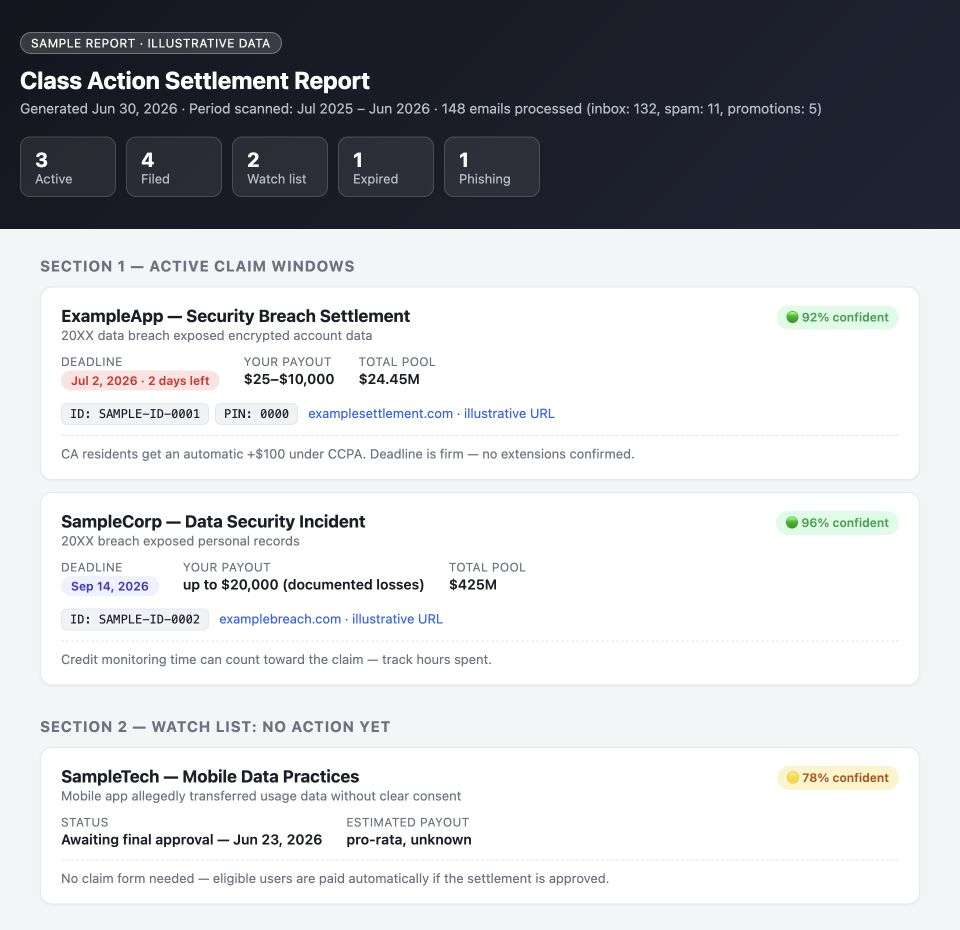
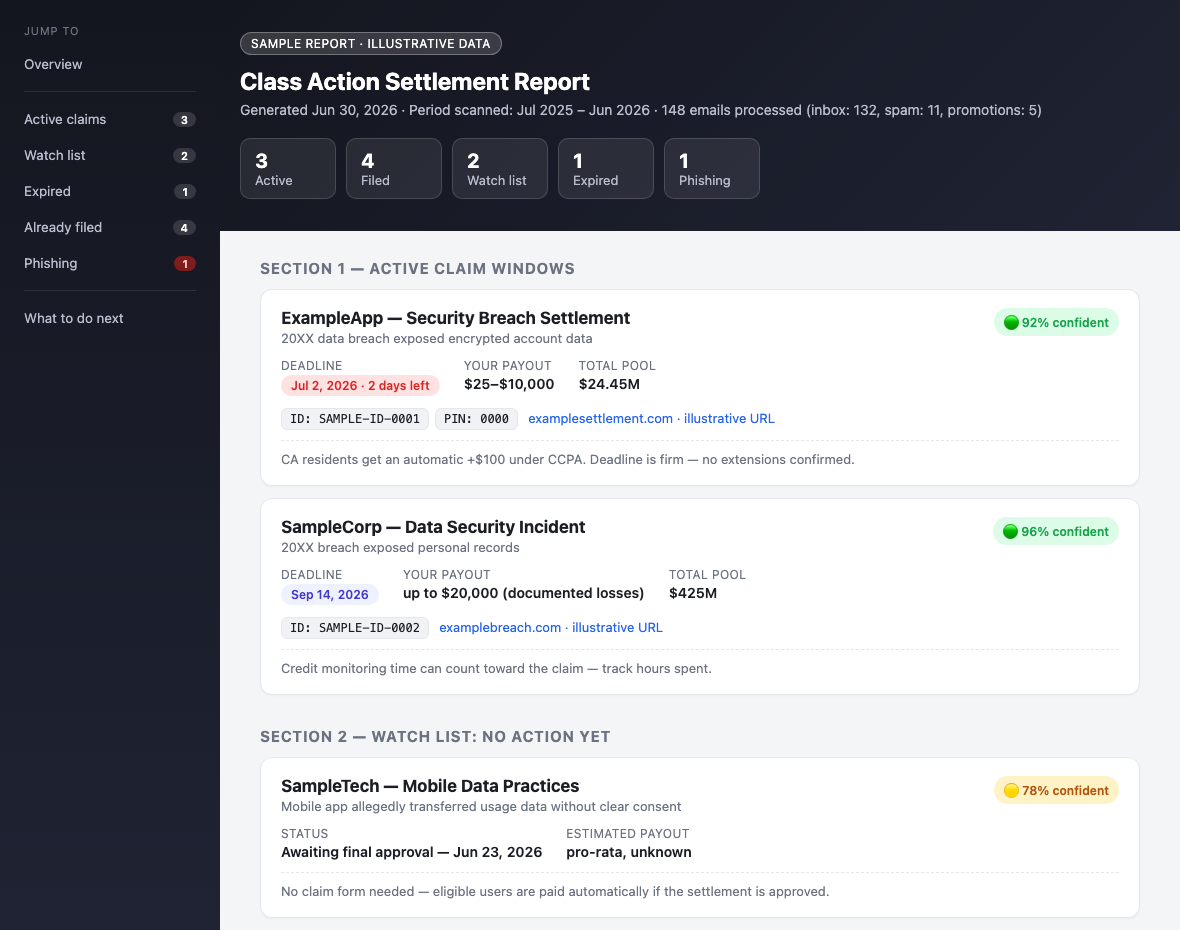
Add a fixed left navigation bar to the HTML report
Long reports meant a lot of scrolling to reach later sections. The
report now has a left sidebar with anchor links to all five sections
and the "What To Do Next" panel, each with its count in a pill (the
phishing count styled as an alert when > 0).

Implementation is pure CSS — anchor links, scroll-behavior: smooth,
scroll-margin-top — because the report's CSP forbids JavaScript.
Below ~900px the sidebar collapses into a wrapped horizontal link bar
at the top. Verified both layouts and anchor scrolling in a real
browser render.

- SKILL.md Step 9: nav added to the report requirements; Part C now
  also updates the nav count pills when patching a report in place
- report-template.md: nav entries and order specified, counts must
  match the header badges
- docs/demo-report.html: sidebar added; both README screenshots
  regenerated from it
- dist rebuilt; both local installs refreshed; check.sh passes

diff --git a/docs/demo-report.html b/docs/demo-report.html
@@ -23,12 +23,72 @@
     --red-bg: #fee2e2;
   }
   * { box-sizing: border-box; }
+  html { scroll-behavior: smooth; }
   body {
     margin: 0;
     font-family: -apple-system, BlinkMacSystemFont, "Segoe UI", Roboto, sans-serif;
     background: var(--bg);
     color: var(--text);
   }
+
+  /* Left navigation — pure CSS anchor links, no JavaScript (CSP-safe) */
+  .sidenav {
+    position: fixed;
+    top: 0; left: 0; bottom: 0;
+    width: 220px;
+    background: linear-gradient(180deg, var(--header-bg), var(--header-bg2));
+    padding: 24px 12px;
+    overflow-y: auto;
+  }
+  .sidenav .nav-title {
+    color: #6d7284;
+    font-size: 11px;
+    text-transform: uppercase;
+    letter-spacing: 0.08em;
+    padding: 0 12px 10px;
+  }
+  .sidenav a {
+    display: flex;
+    justify-content: space-between;
+    align-items: center;
+    gap: 8px;
+    color: #b8bccc;
+    text-decoration: none;
+    font-size: 13.5px;
+    padding: 9px 12px;
+    border-radius: 8px;
+    margin-bottom: 2px;
+  }
+  .sidenav a:hover { background: rgba(255,255,255,0.08); color: #fff; }
+  .sidenav .count {
+    background: rgba(255,255,255,0.14);
+    color: #fff;
+    border-radius: 999px;
+    padding: 1px 8px;
+    font-size: 11px;
+    font-weight: 600;
+  }
+  .sidenav .count.alert { background: #7f1d1d; color: #fecaca; }
+  .sidenav .nav-sep { border-top: 1px solid rgba(255,255,255,0.1); margin: 10px 12px; }
+
+  .page { margin-left: 220px; }
+  section.group, .action-panel, header { scroll-margin-top: 16px; }
+
+  @media (max-width: 900px) {
+    .sidenav {
+      position: static;
+      width: auto;
+      display: flex;
+      flex-wrap: wrap;
+      gap: 4px;
+      padding: 10px 12px;
+      overflow: visible;
+    }
+    .sidenav .nav-title, .sidenav .nav-sep { display: none; }
+    .sidenav a { padding: 6px 10px; }
+    .page { margin-left: 0; }
+  }
+
   .container { max-width: 920px; margin: 0 auto; padding: 0 20px 48px; }
   header {
     background: linear-gradient(135deg, var(--header-bg), var(--header-bg2));
@@ -148,7 +208,21 @@
 </style>
 </head>
 <body>
-<header>
+<nav class="sidenav" aria-label="Report sections">
+  <div class="nav-title">Jump to</div>
+  <a href="#top">Overview</a>
+  <div class="nav-sep"></div>
+  <a href="#section-1">Active claims <span class="count">3</span></a>
+  <a href="#section-2">Watch list <span class="count">2</span></a>
+  <a href="#section-3">Expired <span class="count">1</span></a>
+  <a href="#section-4">Already filed <span class="count">4</span></a>
+  <a href="#section-5">Phishing <span class="count alert">1</span></a>
+  <div class="nav-sep"></div>
+  <a href="#next-steps">What to do next</a>
+</nav>
+
+<div class="page">
+<header id="top">
   <div class="inner">
     <span class="badge-demo">SAMPLE REPORT · ILLUSTRATIVE DATA</span>
     <h1>Class Action Settlement Report</h1>
@@ -165,7 +239,7 @@
 
 <div class="container">
 
-  <section class="group">
+  <section class="group" id="section-1">
     <h2>Section 1 — Active Claim Windows</h2>
 
     <div class="card">
@@ -209,7 +283,7 @@
     </div>
   </section>
 
-  <section class="group">
+  <section class="group" id="section-2">
     <h2>Section 2 — Watch List: No Action Yet</h2>
     <div class="card">
       <div class="card-top">
@@ -227,12 +301,12 @@
     </div>
   </section>
 
-  <section class="group">
+  <section class="group" id="section-3">
     <h2>Section 3 — Expired / Already Closed</h2>
     <div class="empty">No expired claims found in this scan.</div>
   </section>
 
-  <section class="group">
+  <section class="group" id="section-4">
     <h2>Section 4 — Already Filed</h2>
     <div class="card filed">
       <div class="card-top">
@@ -255,7 +329,7 @@
     </div>
   </section>
 
-  <section class="group">
+  <section class="group" id="section-5">
     <h2>Section 5 — Phishing Alerts: Do Not Click</h2>
     <div class="card phishing">
       <div class="card-top">
@@ -266,7 +340,7 @@
     </div>
   </section>
 
-  <div class="action-panel">
+  <div class="action-panel" id="next-steps">
     <h2>What To Do Next</h2>
     <div class="action-item">
       <span class="co">ExampleApp</span> — <span class="dl">deadline Jul 2, 2026 (2 days)</span><br>
@@ -282,6 +356,7 @@
     </div>
   </div>
 
+</div>
 </div>
 </body>
 </html>

diff --git a/skills/class-action-finder/SKILL.md b/skills/class-action-finder/SKILL.md
@@ -162,6 +162,7 @@ For Type A emails with a `claim_url` and confidence 🟢/🟡, open or fetch the
 Create `class-action-report-YYYY-MM-DD.html`. On a local runtime, write it under `output/` relative to this skill's directory; on a hosted runtime, return it as a downloadable artifact. Use self-contained HTML (inline CSS, no external dependencies) and `references/report-template.md` as the content guide, rendered as styled HTML rather than raw markdown tables. Requirements:
 
 - Dark header bar with report date, scan period, and badge counts
+- **A fixed left navigation bar** so long reports don't require endless scrolling: pure CSS anchor links only (the CSP forbids JavaScript). Give each of the five sections and the "What To Do Next" panel an `id`, link to them from the nav with each section's count in a small pill, add `html { scroll-behavior: smooth; }` and `scroll-margin-top` on the targets, and offset the main content with a left margin. Below ~900px viewport width, collapse the sidebar into a wrapped horizontal link bar at the top via a media query.
 - One card per claim (not a `<table>`): company, case, color-coded confidence (🟢/🟡/🟠/🔴), deadline pill (red/urgent if ≤ 14 days away), payout, claim ID and PIN each in their own monospace box (show PIN only if extracted), and a distinct "✅ Already filed" badge when `already_filed` is true
 - Make a verified claim URL clickable only for 🟢/🟡 entries. Show 🟠 URLs as non-clickable text with a verification warning. Never render a 🔴 URL.
 - A "What To Do Next" action panel at the bottom, sorted by soonest deadline
@@ -255,7 +256,7 @@ After a "mark as filed" or "record a payout":
    - Find the claim's card by company name (same fuzzy matching).
    - Update the matching open-claim card with the "✅ Already filed on [date]" badge or received-payout info.
    - Remove any filing action for that claim from the "What To Do Next" panel.
-   - Add or update the corresponding Section 4 card and increment the Filed count only if the claim was not already counted there. Keep the Active count unchanged while the claim window remains open; Active means an open claim window, not an unfiled task.
+   - Add or update the corresponding Section 4 card and increment the Filed count only if the claim was not already counted there — in both the header badges and the left-nav count pills. Keep the Active count unchanged while the claim window remains open; Active means an open claim window, not an unfiled task.
    - Keep all unrelated content byte-for-byte unchanged — this is a targeted edit, not a re-render.
    - Save over the same file.
 3. Confirm according to the runtime:

diff --git a/skills/class-action-finder/references/report-template.md b/skills/class-action-finder/references/report-template.md
@@ -6,6 +6,22 @@ The HTML-safety rules in Step 9 apply to every section and the action panel. Esc
 
 ---
 
+## Left Navigation
+
+A fixed sidebar (see Step 9 for the layout rules) with anchor links, in this order:
+
+1. Overview → the header block
+2. Active claims → Section 1, with its count in a pill
+3. Watch list → Section 2, with count
+4. Expired → Section 3, with count
+5. Already filed → Section 4, with count
+6. Phishing → Section 5, with count styled as an alert (red) when > 0
+7. What to do next → the action panel
+
+Counts must match the header badges. Pure anchor links only — no JavaScript.
+
+---
+
 ## Header Block
 
 Show at the top of the page:
